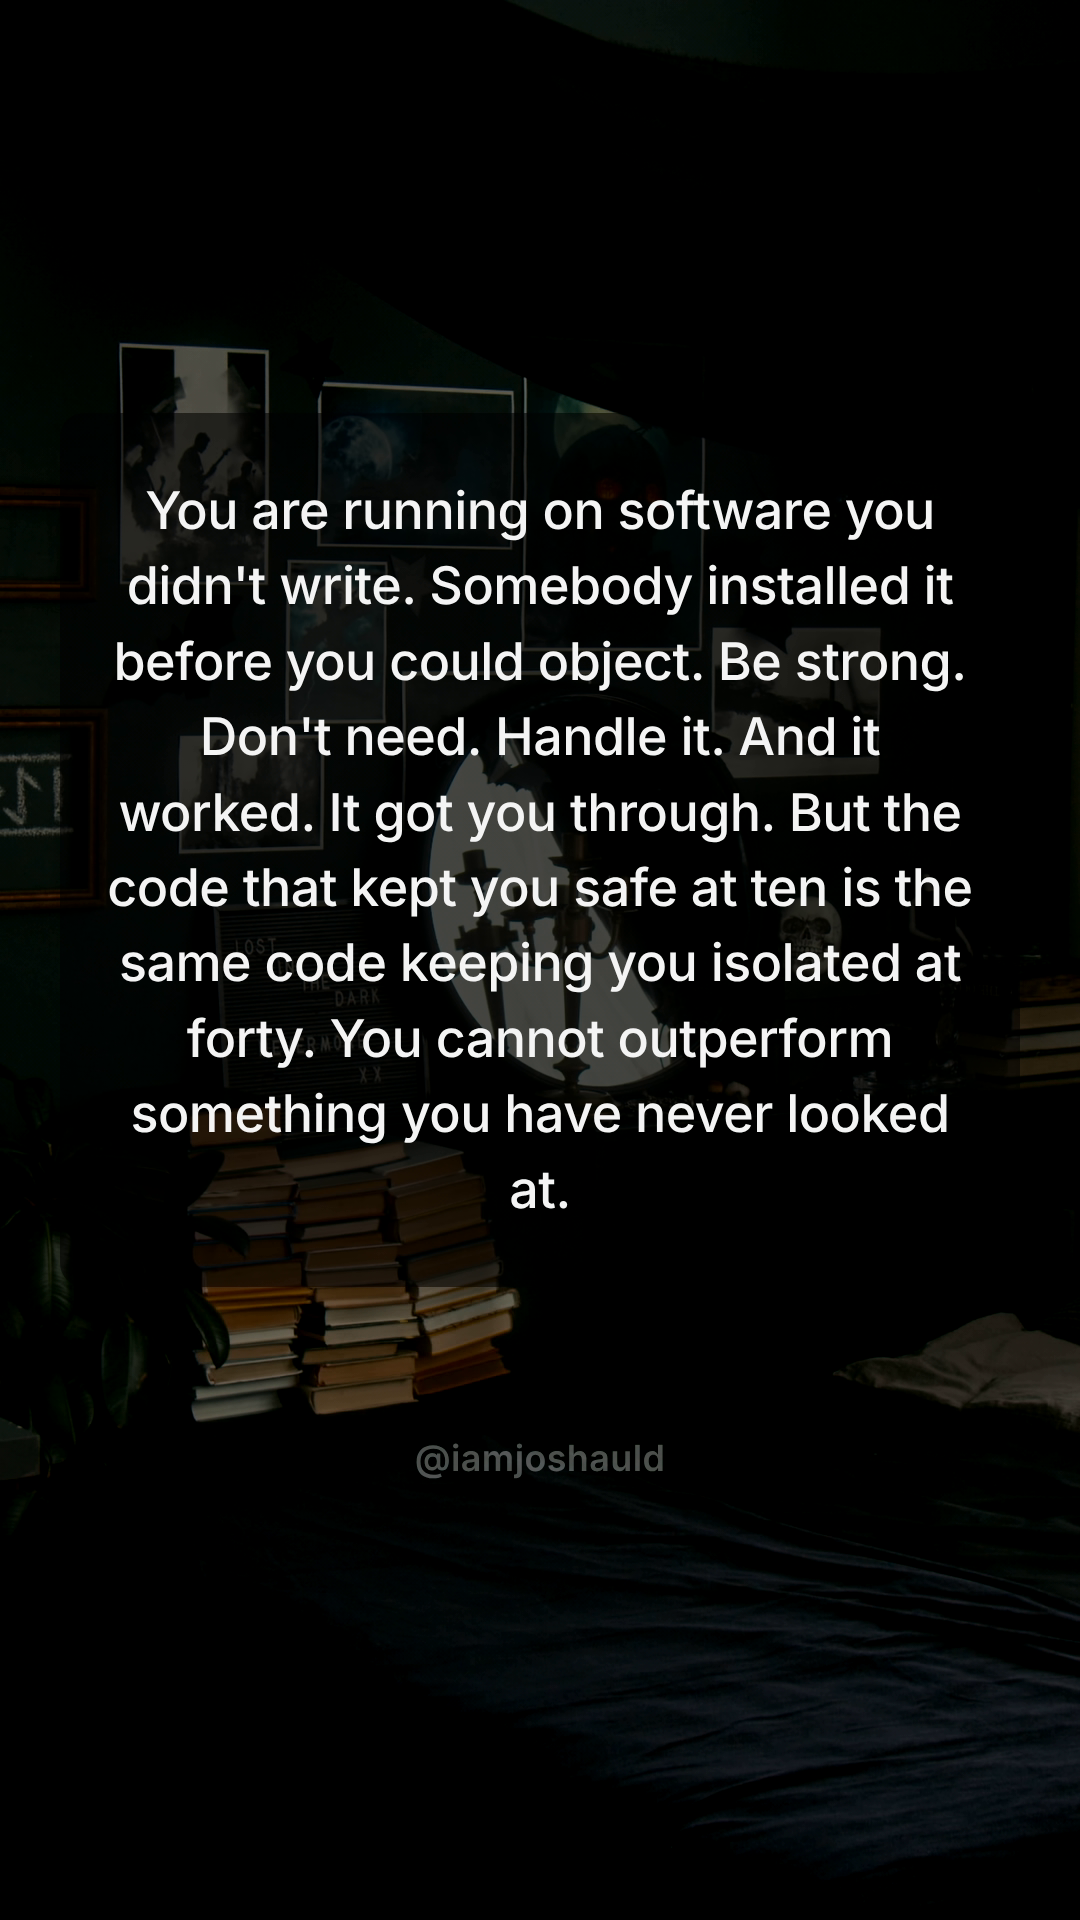
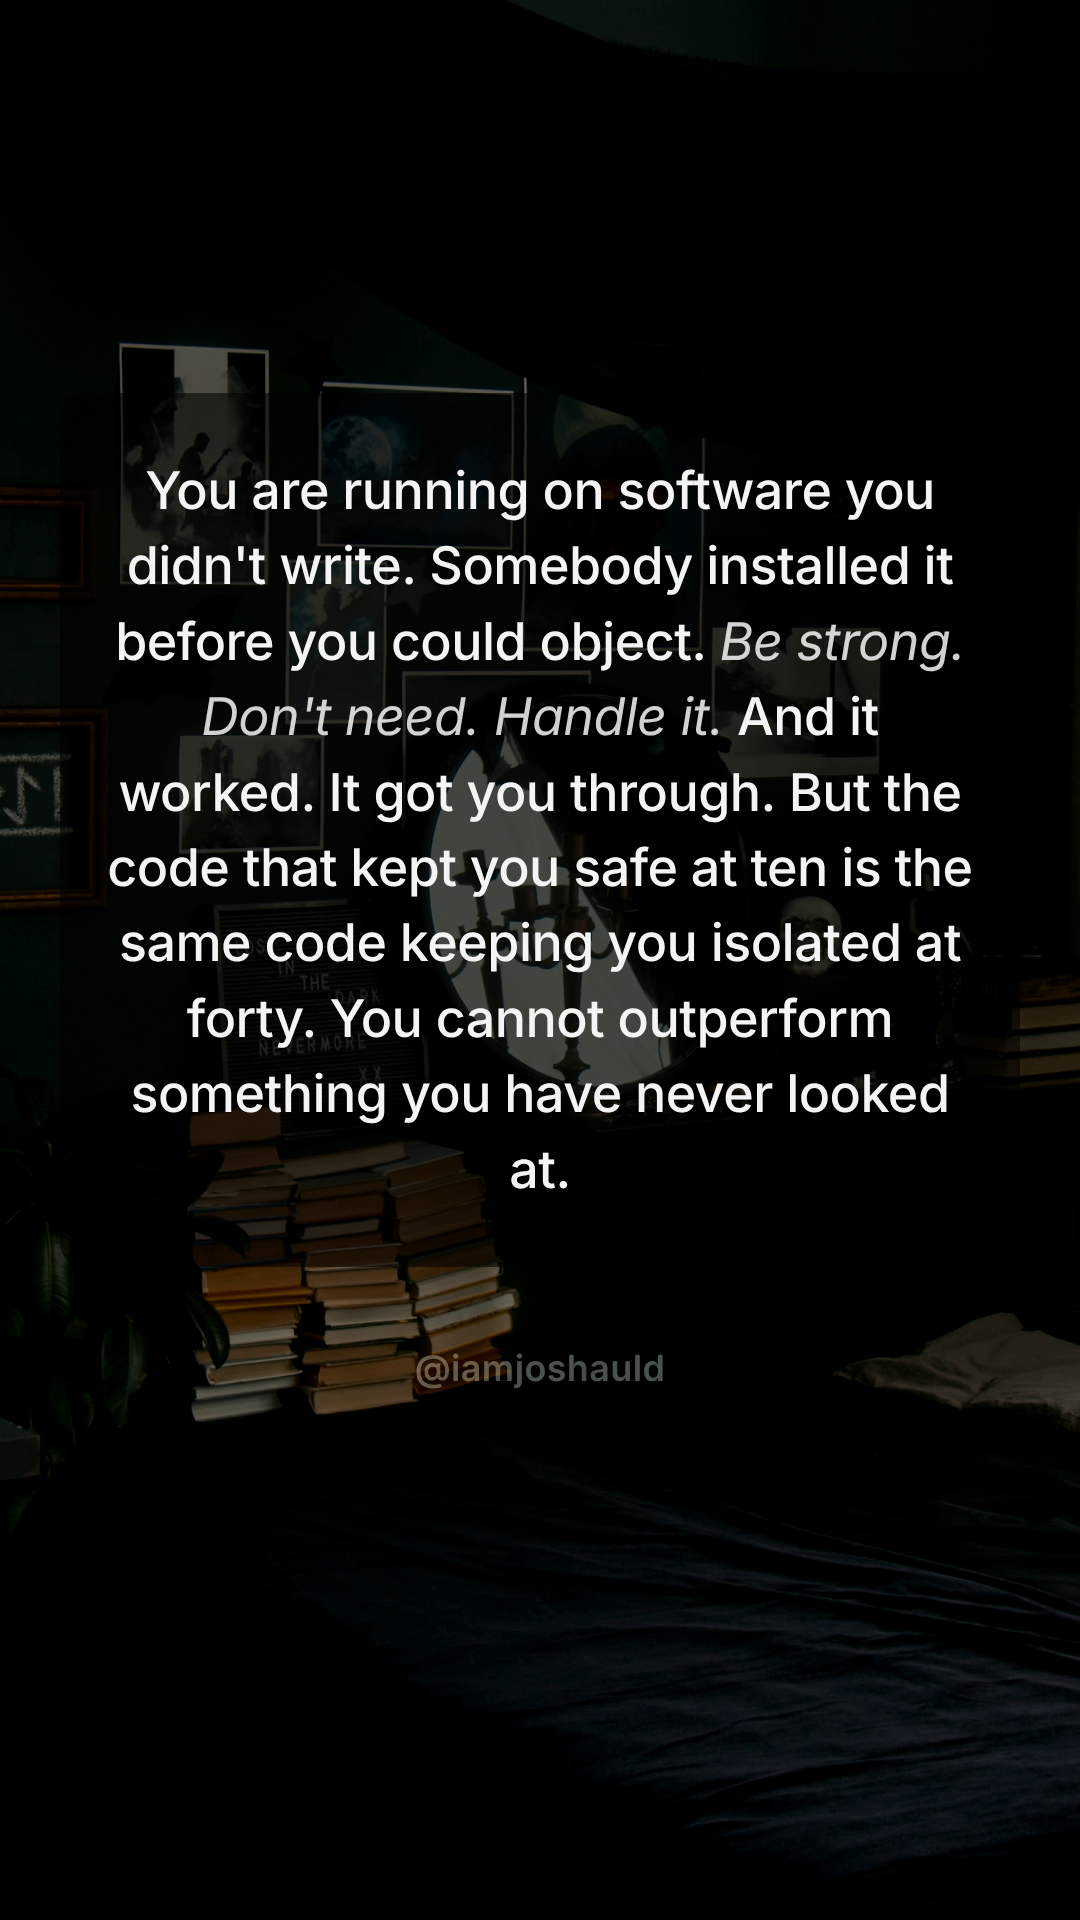
Fix Instagram Reel safe zone positioning and add italic formatting
Move text pane and handle up to clear Instagram bottom UI (caption/music
bar). Add <em> italic tags to quoted lines in cards b1-02, b1-08, b1-14.
Re-render b1-08 and b1-12 previews with updated template.

Claude-Session: https://claude.ai/code/session_01ADdEP84Gmqvn5EVeypGBzM

diff --git a/reel-engine/video-card-template.html b/reel-engine/video-card-template.html
@@ -23,7 +23,7 @@
     left: 60px;
     right: 60px;
     top: 260px;
-    bottom: 480px;
+    bottom: 510px;
     background: rgba(0, 0, 0, 0.55);
     border-radius: 24px;
   }
@@ -34,7 +34,7 @@
     left: 100px;
     right: 100px;
     top: 300px;
-    bottom: 520px;
+    bottom: 560px;
     display: flex;
     align-items: center;
     justify-content: center;
@@ -57,7 +57,7 @@
 
   .handle {
     position: absolute;
-    bottom: 440px;
+    bottom: 530px;
     font-weight: 600;
     font-size: 36px;
     color: rgba(244, 244, 244, 0.35);
@@ -102,7 +102,7 @@ window.setup = function(d) {
   const pane = document.getElementById('pane');
   const padV = 60, padH = 50;
   const top = Math.max(260, textRect.top - padV);
-  const bottom = Math.max(480, 1920 - textRect.bottom - padV);
+  const bottom = Math.max(510, 1920 - textRect.bottom - padV);
   pane.style.top = top + 'px';
   pane.style.bottom = bottom + 'px';
 
